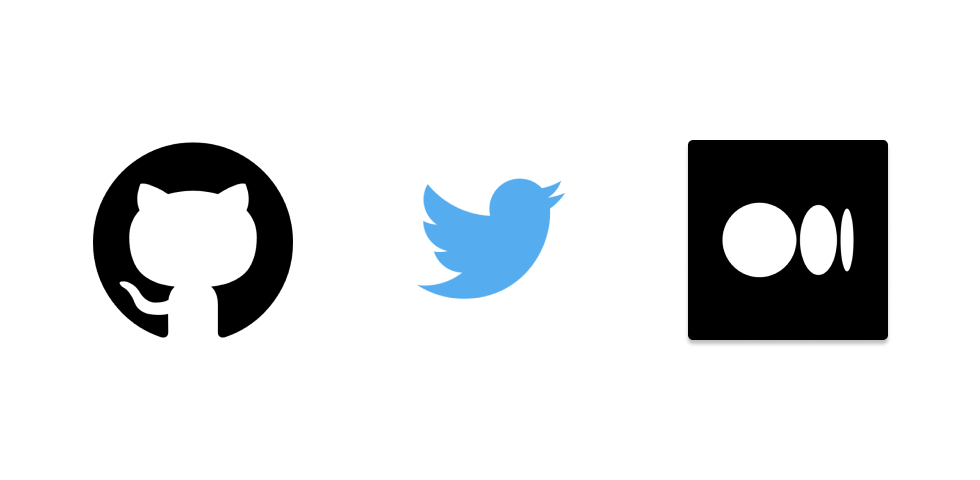
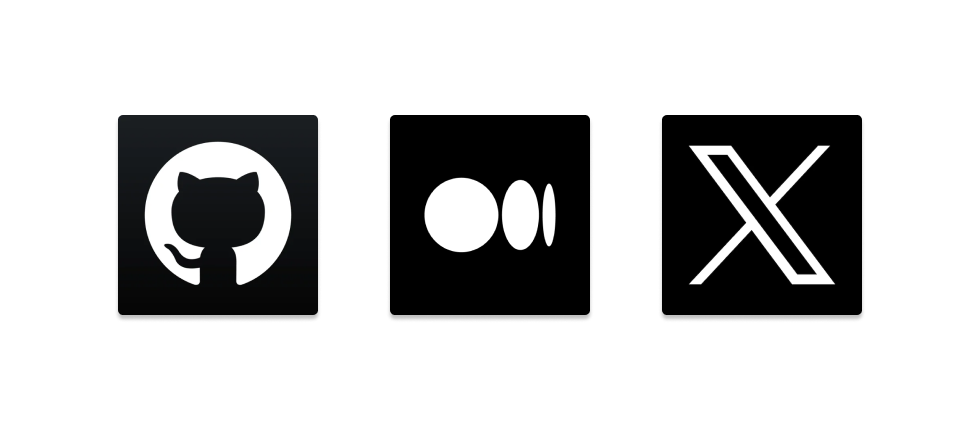
adjust home page links, img & texts

Changed region(s): [[0.0918, 0.2419, 0.3367, 0.7558], [0.398, 0.2419, 0.6122, 0.7558], [0.6735, 0.2419, 0.9184, 0.7558]]

diff --git a/index.html b/index.html
@@ -7,7 +7,7 @@
     <meta name="viewport" content="width=device-width, initial-scale=1.0" />
     <meta
       name="description"
-      content="GitHub profile landing page of Dimterion, Web Developer."
+      content="Dimterion, Web Developer, GitHub profile site."
     />
     <link rel="icon" type="image/x-icon" href="./assets/avatar_icon.ico" />
     <link rel="preconnect" href="https://fonts.googleapis.com" />
@@ -83,19 +83,19 @@
           <div class="about-me">
             <h4>More about me</h4>
             <p>
-              I am currently working on a few personal projects while also
-              polishing those that have already been completed. You can check
-              some of them below.
+              I am currently working on personal projects and polishing those
+              that have already been completed. You can check some of them
+              below.
             </p>
             <p>
               I like writing about my work / learning process and documenting
               things that might be useful for me or others as well. At the
-              moment I am mostly present at Twitter and Medium platforms.
+              moment I am mostly present at Medium and X (Twitter) platforms.
             </p>
             <hr />
             <h4>TOP EXPERTISE</h4>
             <p id="contact-link">
-              Front-End developer with primary focus on React:<br /><br />
+              Web developer with primary focus on React:<br /><br />
               <a href="./pages/resume.html" target="_blank" rel="noreferrer"
                 ><i class="fa-solid fa-address-card"></i> Resume</a
               >
@@ -137,7 +137,7 @@
               src="./assets/socials_image.png"
               alt="Social media logos: GitHub, Twitter, Medium"
             />
-            <h3>My GitHub / Twitter / Medium accounts</h3>
+            <h3>My GitHub / Medium / X (Twitter) accounts</h3>
             <a
               href="https://github.com/Dimterion"
               target="_blank"
@@ -146,17 +146,14 @@
             >
             <br />
             <a
-              href="https://twitter.com/Dimterion"
-              target="_blank"
-              rel="noreferrer"
-              >Twitter: @Dimterion</a
-            >
-            <br />
-            <a
               href="https://medium.com/@dimterion"
               target="_blank"
               rel="noreferrer"
               >Medium: @Dimterion</a
+            >
+            <br />
+            <a href="https://x.com/Dimterion" target="_blank" rel="noreferrer"
+              >X (Twitter): @Dimterion</a
             >
           </div>
         </div>
